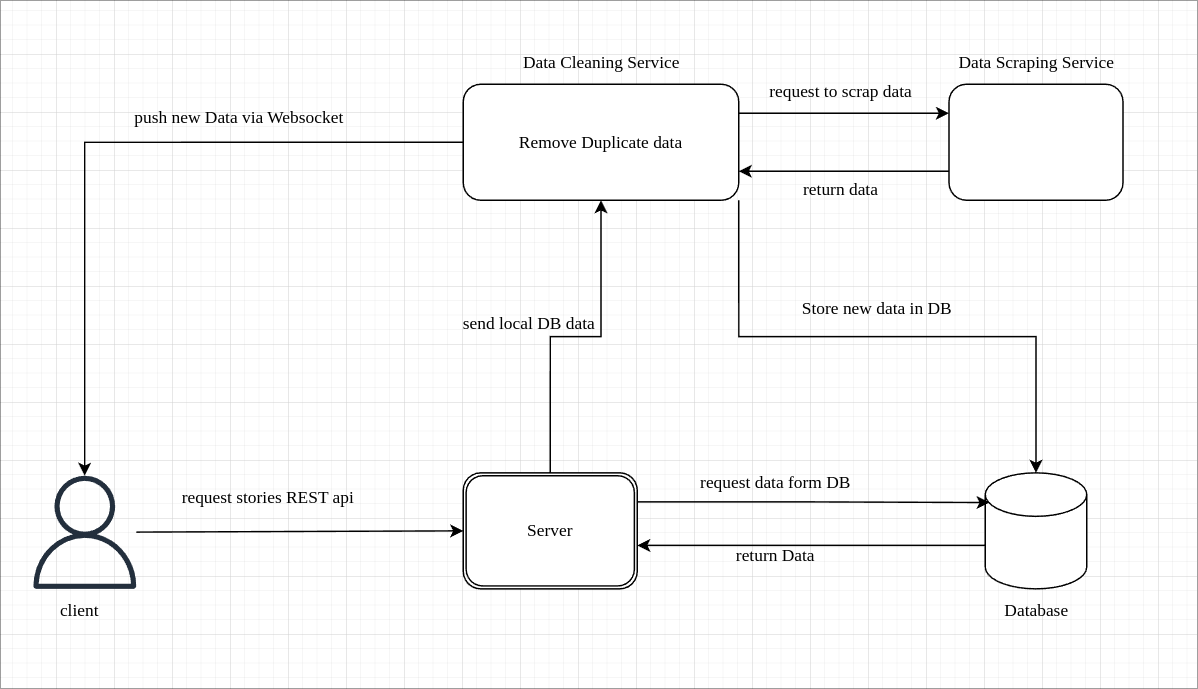
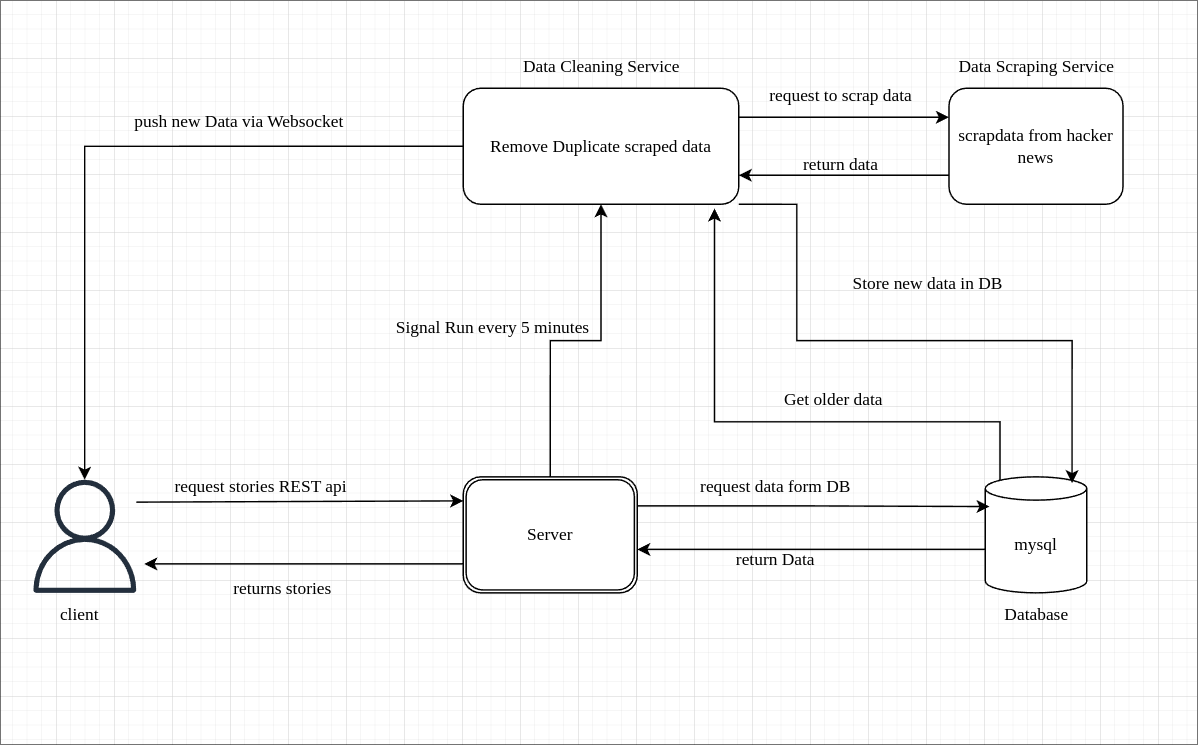
update readme

diff --git a/README.md b/README.md
@@ -5,7 +5,8 @@ This project Scrap data from hacker news website and push live updates in real-t
 ## Features
 - Scrap hacker news website and collect latest stories. 
 - The scraped data is stored in Database.
-- Periodically scrape and send latest stories to connected clients via websocket (every 5 mins).
+- Periodically scrape data rom hacker news.(every 5 minutes).
+- We can change the time according our choice by changing `.env`.
 
 ## Architecture
 
@@ -80,16 +81,16 @@ Before setting up the project, ensure you have the following installed:
 
 ## API Documentation
 
-- #### Get simple(UI) page.
+- #### Get simple HTML UI page.
 
 ```http
-    GET /
+    GET http://localhost:5000/
 ```
 
-- #### Get Stories
+- #### Get Array of Stories
 
 ```http
-    GET /api/stories
+    GET http://localhost:5000/api/stories
 ```
 - #### websocket
  ```http
@@ -121,5 +122,4 @@ Before setting up the project, ensure you have the following installed:
 - The stories array are the new stories scraped from hacker news
 
 ### Testing Tools:
-- Use `Postman` for testing. 
-- use `curl` for http testing from terminal.
+- Use `Postman` for testing `websocket` and `RESTAPI'S`. 
